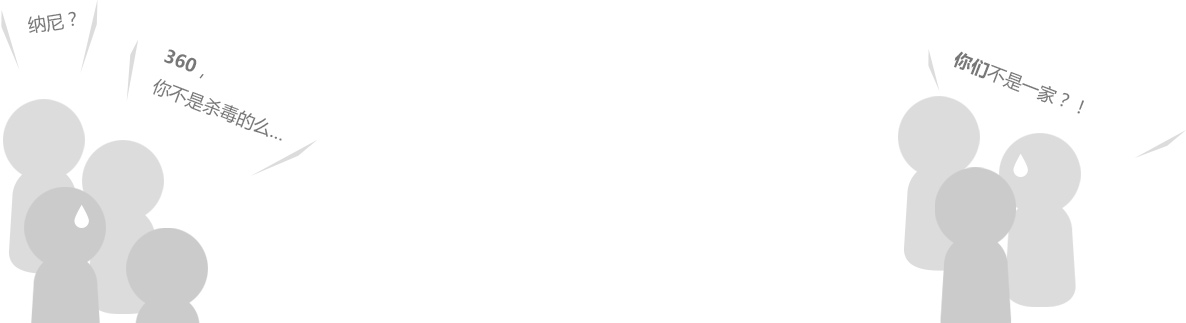
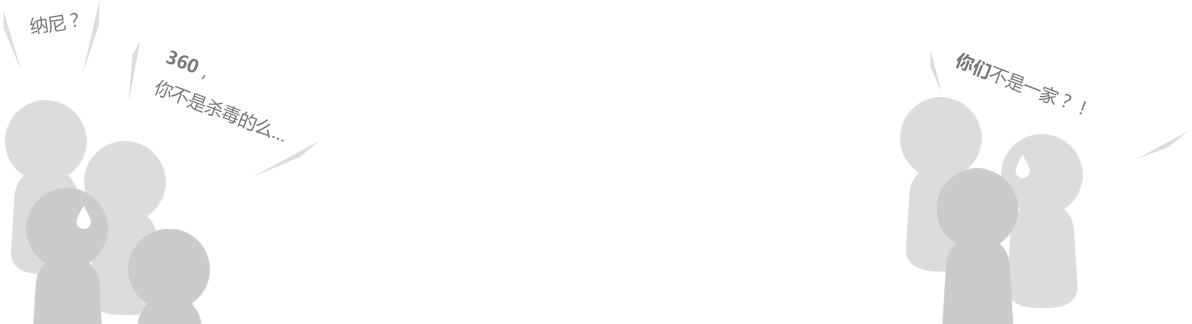
更改
git-svn-id: http://192.168.0.5/svn/Member/trade/web@9298 8c2d0303-d7d2-0546-a2d7-8b6cbec2f4b4

diff --git a/Static/topic/buyone_getone/css/style.css b/Static/topic/buyone_getone/css/style.css
@@ -201,7 +201,7 @@ abbr,acronym { border:0}
 }
 .sp-imitate .w1100{
     height: 315px;
-    background: url("../images/spc-vs1.jpg") no-repeat 315px top;
+    background: url("../images/spc-vs1.png") no-repeat 315px top;
 }
 .sp-imitate .w1100 label{
     display: inline-block;
